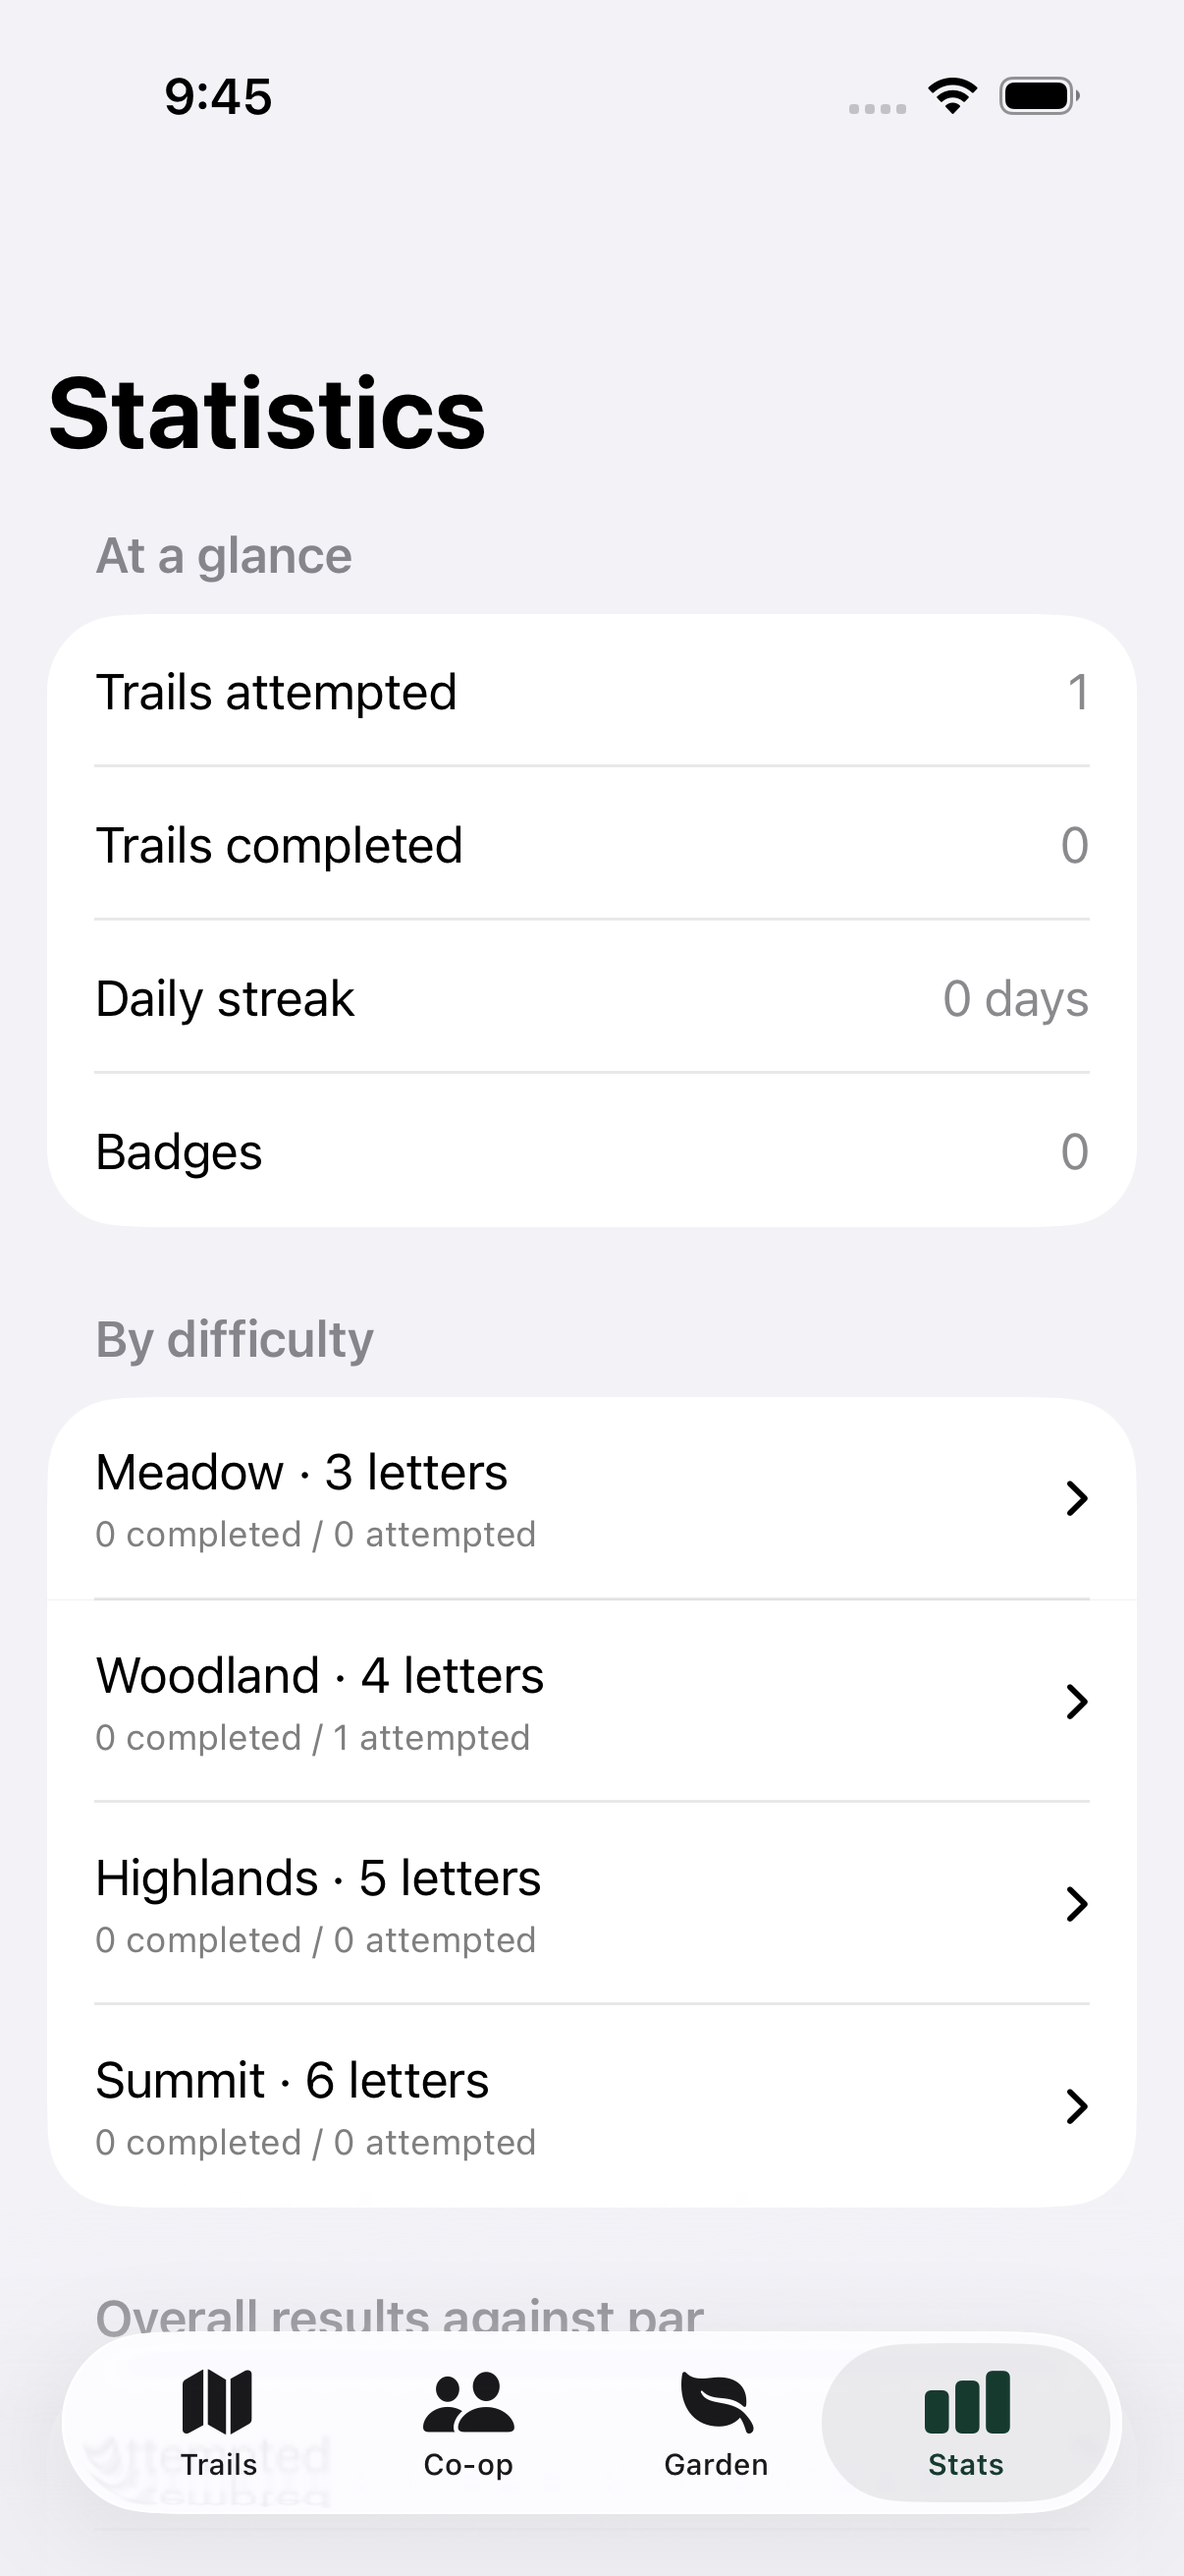
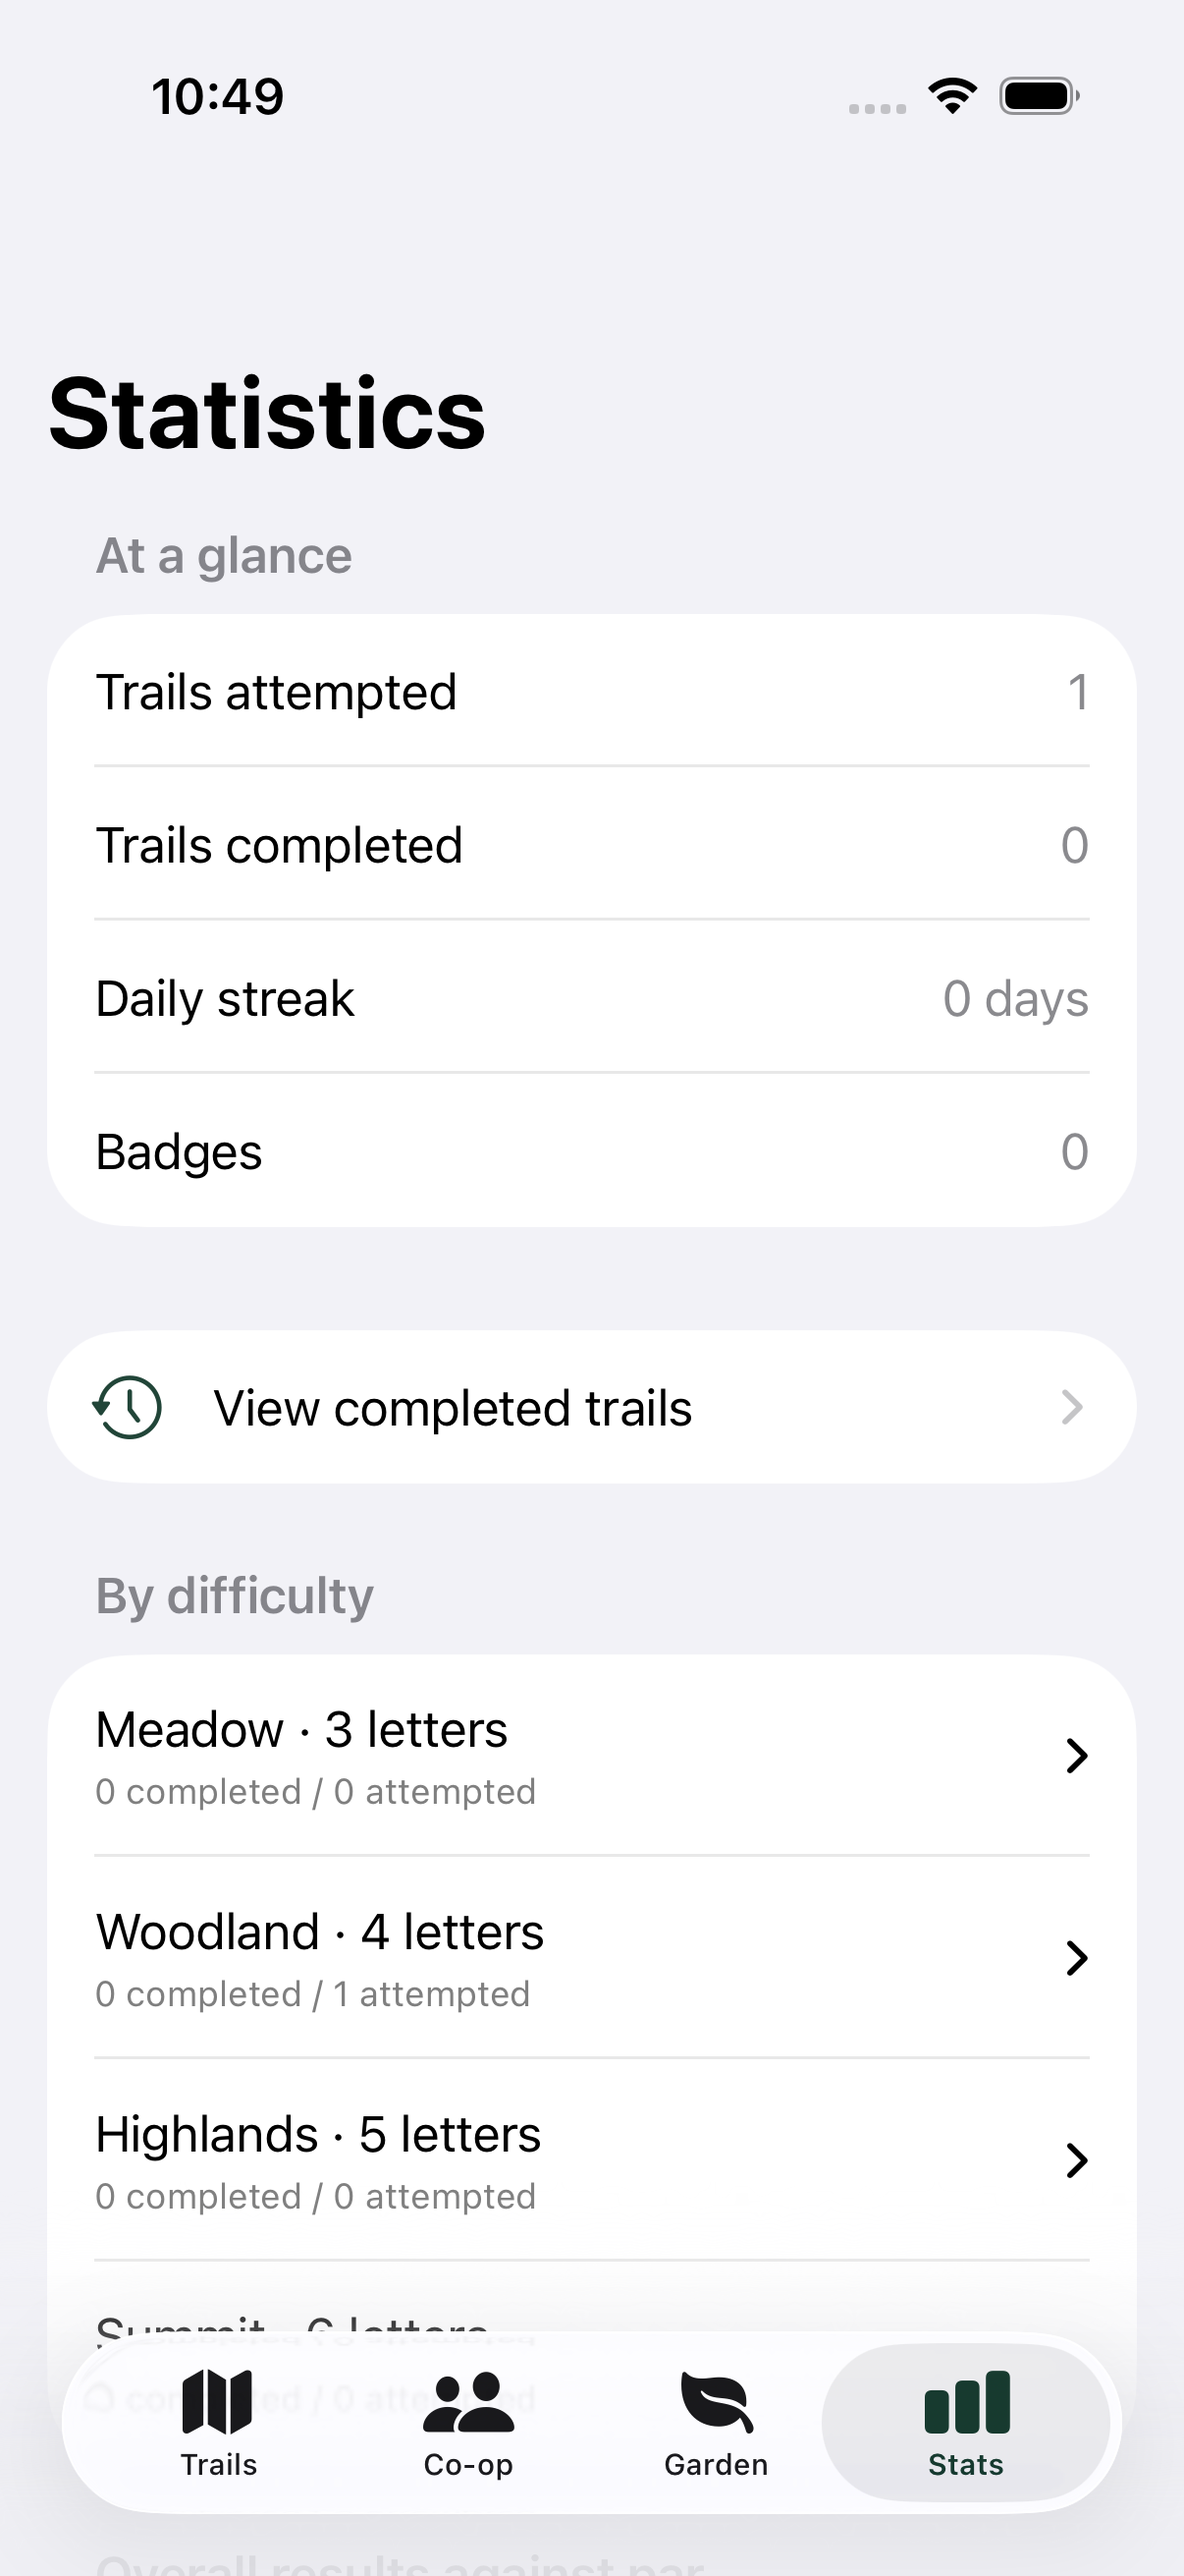
Document verified TestFlight 1.3.0 history and shortest-route release

diff --git a/README.md b/README.md
@@ -2,9 +2,16 @@
 
 Native iPhone word trails for iOS 17 and later. Daily solo play works offline, with optional real-friend co-op through Apple Game Center. No versus mode or bots. The website ways2earn.com is neither accessed nor changed.
 
-Current internal TestFlight beta: **1.2.0 (1)**, Apple processing `VALID`, assigned to Word Trails Internal with status **Testing**. Release source: `testflight-1.2.0-1` (`b9d2f5bc1ddd97dc5eb307d22024b62860790b7c`). All 21 engine tests and four iPhone simulator UI tests passed.
+Current internal TestFlight beta: **1.3.0 (2)**, Apple processing `VALID`, assigned to Word Trails Internal with status **Testing**. Release source: `testflight-1.3.0-2` (`cdbf32f35a24f4bc5f69cd99a8de88d268165e1b`). All 23 engine tests and five iPhone simulator UI tests passed.
 
 <img src="docs/screenshots/08-Statistics.png" width="260" alt="Statistics per difficulty"> <img src="docs/screenshots/06-Complete.png" width="260" alt="An optimal route finishing one under par">
+
+## Update 1.3
+
+- Completed daily attempts open directly from the daily card; replay is a separate action.
+- Searchable completed-trail history is available from Trails and Stats, including older attempts and replays. Saved views retain original routes, scores, par and minimum and never replace the active run, create attempts or award seeds again.
+- Minimum-step solutions receive a Shortest possible route acknowledgement on completion, in saved results and on shared cards. Hints or undo do not prevent this route-length recognition; unassisted achievement rules are unchanged.
+- Removed the difficulty legend from the bottom of Trails, with a native screenshot and UI regression check.
 
 ## Update 1.2
 
@@ -19,7 +26,7 @@ Current internal TestFlight beta: **1.2.0 (1)**, Apple processing `VALID`, assig
 - Familiar hints now consider a familiar continuation even when the current word is unusual. Uncommon continuations are used only when no equally short familiar route remains. The explanation is in Field notes; the hint itself stays concise.
 - Sixteen new badges bring the total to 24, with 1,000-trail, 365-day and 365-day-streak milestones. New badges trigger an in-app notice. Historical progress is recognised; distinct-trail badges cannot be farmed with replays.
 - Sharing exports an illustrated 1200×1560 result card and a small canonical App Store link. Intermediate route words stay private. The App Store link becomes available at public launch.
-- Daily puzzles remain identical worldwide at each difficulty, resetting at midnight UTC. The 1.2 update preserves the 1.1 catalog exactly. Catalog-size copy and the difficulty legend were removed from the app.
+- Daily puzzles remain identical worldwide at each difficulty, resetting at midnight UTC. The 1.2 update preserves the 1.1 catalog exactly. Catalog-size copy was removed from Field notes.
 
 ## Play and privacy
 

diff --git a/docs/DESIGN.md b/docs/DESIGN.md
@@ -1,4 +1,4 @@
-# Word Trails 1.2 design
+# Word Trails 1.3 design
 
 The primary experience is a daily solo trail, with four letter lengths and optional practice. No opponent or account is required. Optional Game Center co-op lets two real players alternate legal words on a shared route. Bots and versus have been removed.
 
@@ -21,3 +21,7 @@ Hints search the full graph with future nodes restricted to familiar words, allo
 Badges include 100, 250, 500 and 1,000 rewarded trails; 30, 100 and 365 daily-play days; 90- and 365-day streaks; distinct under-par and shortest-route totals; 25 trails per difficulty; a full garden; and co-op milestones. New awards are announced together. Replayed copies of the same puzzle/mode do not inflate distinct-route achievements. Historical longest streaks are retained through the existing daily-day history.
 
 Result sharing renders an original native vector card at 1200×1560. It shows the endpoints, score, steps, par, minimum and hint status, without intermediate-word spoilers. The system activity sheet shares the PNG and canonical App Store URL. That URL becomes live when the app is publicly released.
+
+Completed results are immutable Run values rendered independently from TrailStore.run. A saved view does not call start, submit, record or track. Daily cards select the latest matching solo completion, checking both puzzle ID and endpoints for compatibility with older catalogs; every older result remains available in the full searchable history. Stats also links directly to history, while recent rows open the same detail view.
+
+The shortest-route acknowledgement requires a completed route whose step count equals that attempt's stored minimum. It recognises minimum length even with hints or undo; the unassisted badges retain their separate requirements. The marker appears in live completion, saved detail, co-op completion and the rendered share card.
